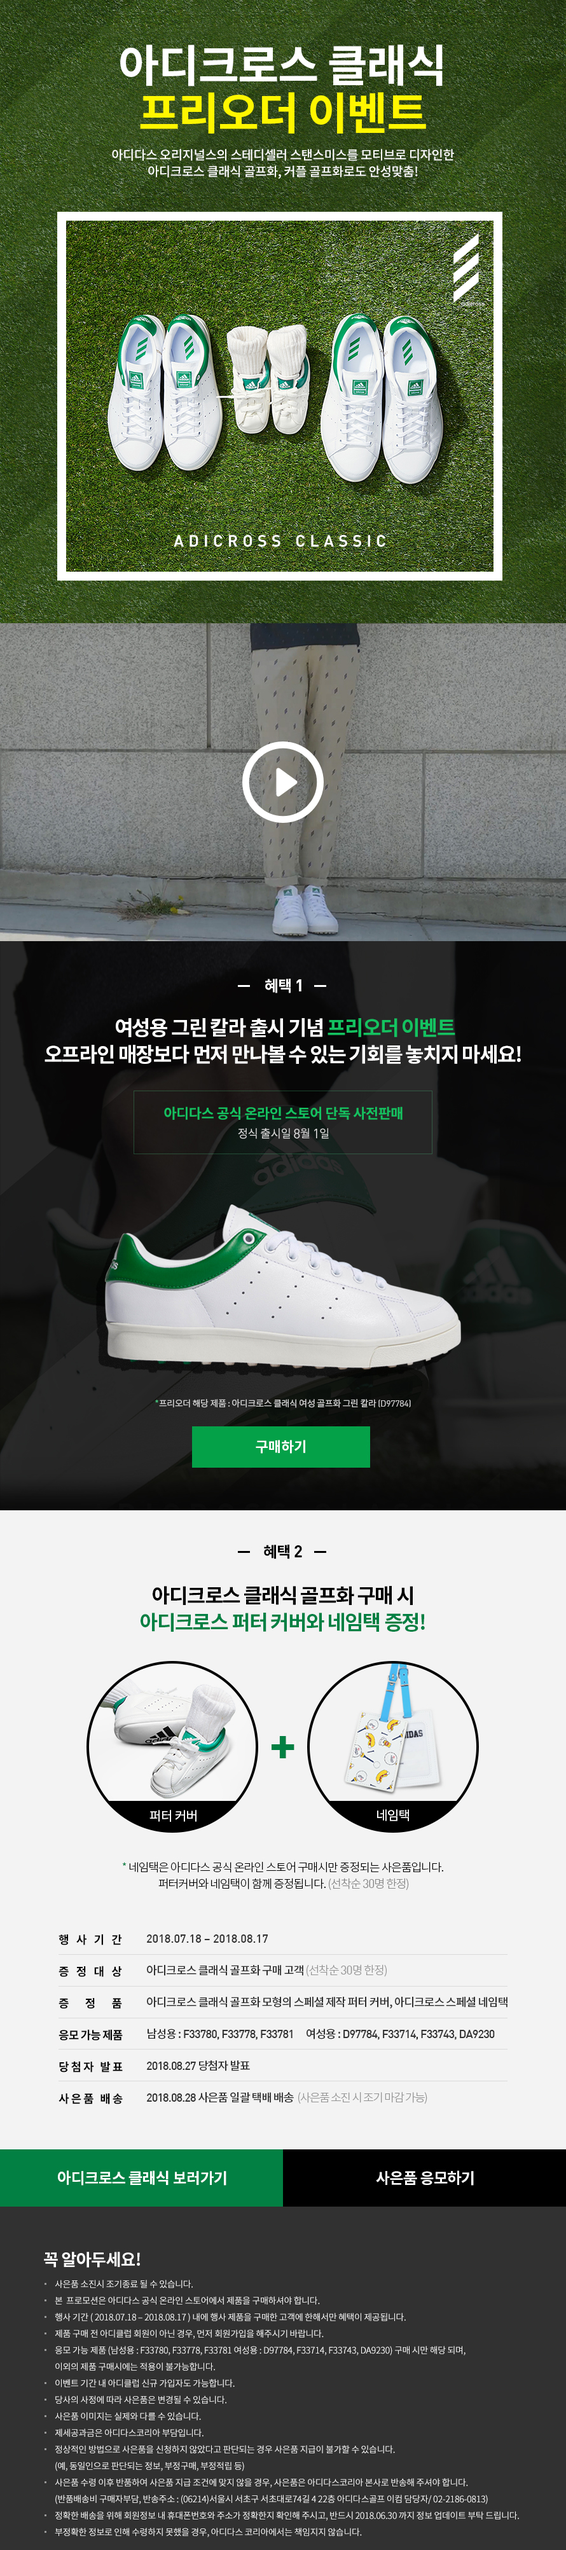
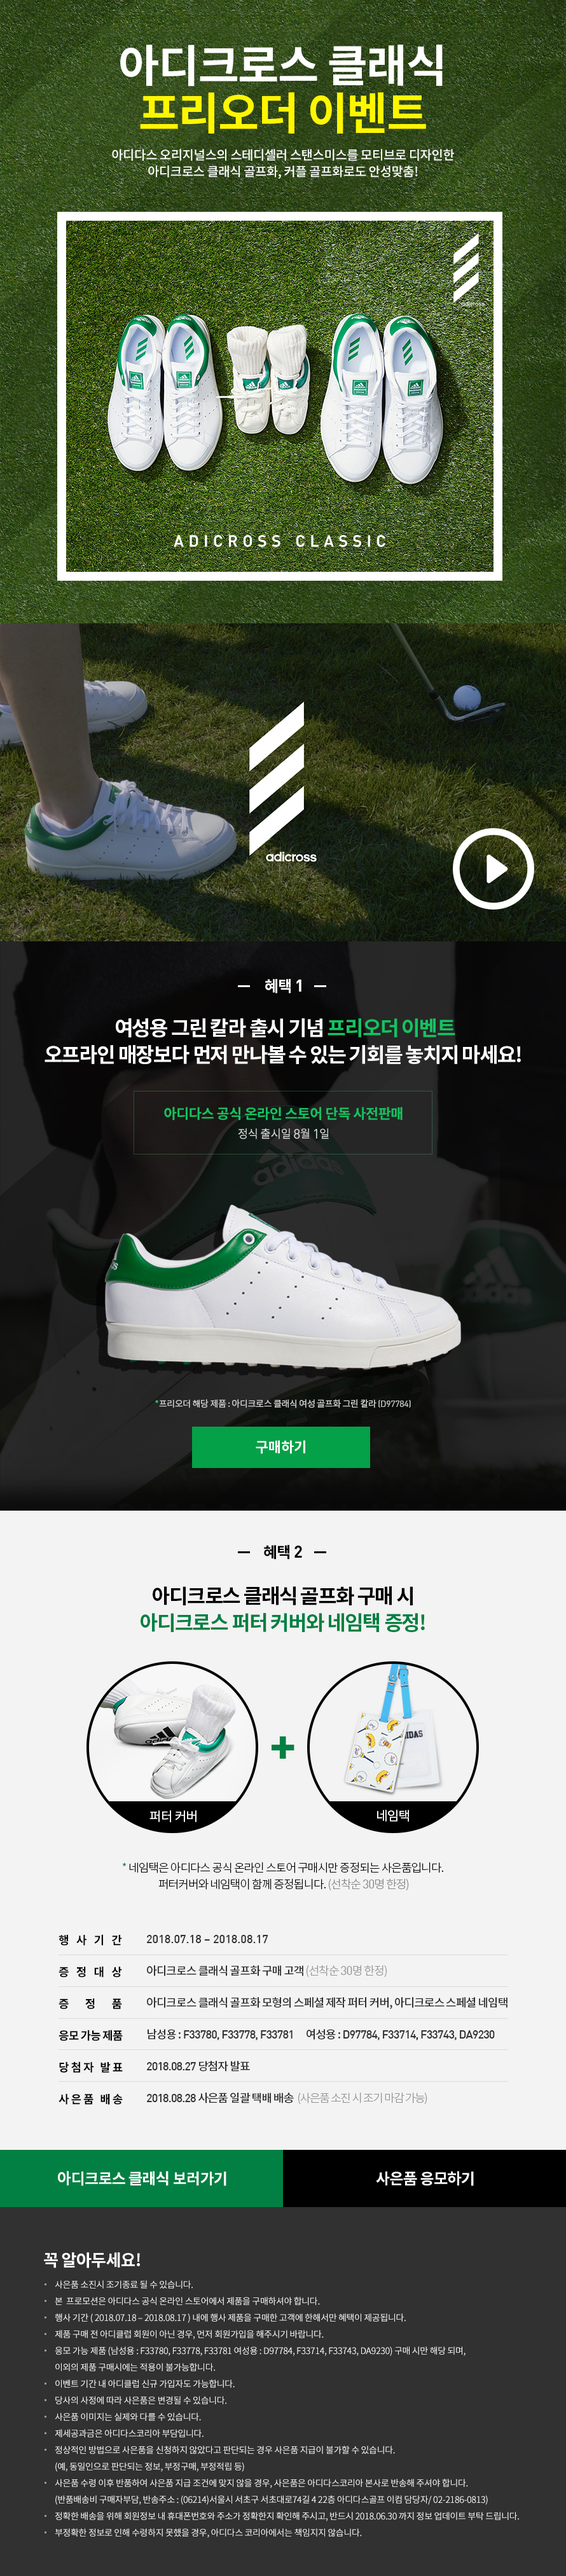
-

diff --git a/app/html/adidas/campaign/5285/index.html b/app/html/adidas/campaign/5285/index.html
@@ -1299,10 +1299,10 @@
                                 <!-- 작업영역 -->
                                 <div style="position:relative">
 									<div class="inn">
-										<img src="http://image.adidas.co.kr/upload/campaign/adidas/5285/1807_ADICROSS_DT.jpg" alt="" usemap="#map1">
+										<img src="http://image.adidas.co.kr/upload/campaign/adidas/5285/1807_ADICROSS_DT.jpg" alt="" usemap="#map1">										
 
 										<map name="map1" id="map1">
-											<area shape="rect" coords="380,1165,509,1293" href="javascript:void(0)" class="play-video" data-video-id="eSSVkUO_HFQ" onfocus="blur()" alt="동영상보기">
+											<area shape="rect" coords="712,1301,840,1431" href="javascript:void(0)" class="play-video" data-video-id="eSSVkUO_HFQ" onfocus="blur()" alt="동영상보기">
                                             <area shape="rect" coords="304,2244,580,2308" href="http://shop.adidas.co.kr/PF020401.action?PROD_CD=D97784" alt="구매하기">
                                             <area shape="rect" coords="2,3382,442,3468" href="http://shop.adidas.co.kr/PF070801.action?pageNo=652" alt="아디크로스 클래식 보러가기">
                                             <area shape="rect" coords="446,3382,890,3468" href="#" alt="사은품 응모하기">
